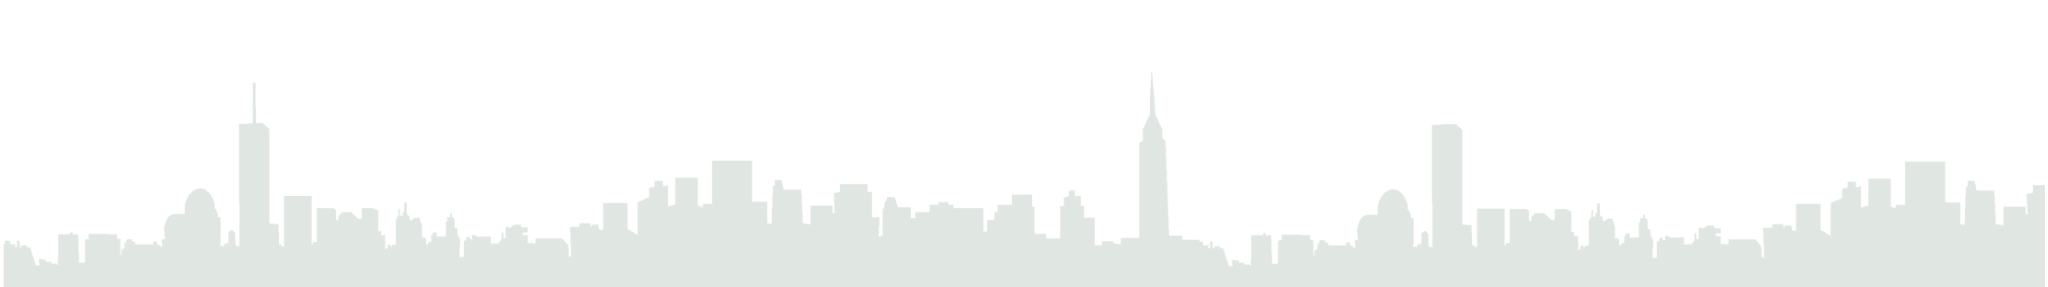
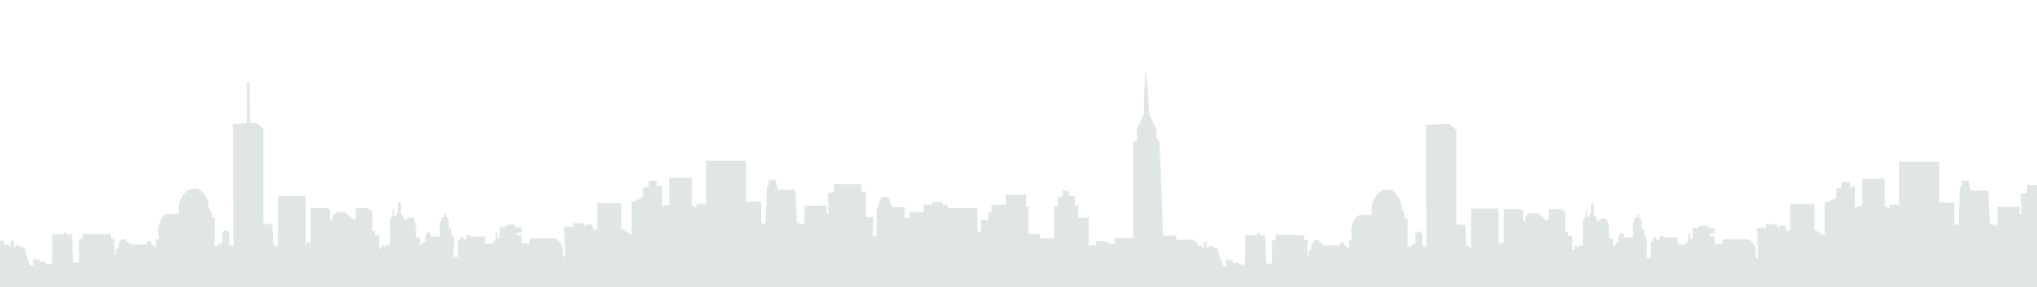
cropped and moved cityline

diff --git a/commonplace/app/page.tsx b/commonplace/app/page.tsx
@@ -22,72 +22,76 @@ export default function Home({
   searchParams: { [key: string]: string | undefined}
 }) {
   return (
-    <div className='pt-[60px] mx-12'>
-      <Hero/>
-      <LineBreak/>
-      <About/>
-      
-      <div className='
-        responsive-screen-sm my-8 bg-cover bg-fixed bg-center bg-no-repeat
-      '
-        style={{backgroundImage: 'url("/scroll.jpg")'}}
-      >
-      </div>
-
-      <LogosScroll />
-
-      <SectionHeader
-        text="EXPERIENCES"
-      />
-      
-      <ExperienceCard
-        imgsrc='/experience/Kings Bay Y.png'
-        imgalt='Kings Bay Y'
-        title='Kings Bay Y'
-        description=''
-        startDate='07/2023'
-        endDate='08/2023'
-      />
-      <ExperienceCard
-        imgsrc='/experience/Gifted Reading and Math Center.jpg'
-        imgalt='Gifted Reading and Math Center'
-        title='Gifted Reading and Math Center'
-        description=''
-        startDate='09/2019'
-        endDate='07/2022'
-      />
-      
-      <SectionHeader
-        text="Projects"
-      />
-      <div className="
-        grid grid-cols-1 xs:grid-cols-2 md:grid-cols-3 lg:grid-cols-4 xl:grid-cols-5 xxl:grid-cols-6
-      ">
-        <ProjectCard
-          header="IBM Ceph"
-          url='/project/IBM Ceph.jpg'
-          alt='IBM Ceph'
+    <div className="h-full">
+      <div className='pt-[60px] mx-12'>
+        <Hero/>
+        <LineBreak/>
+        <About/>
+        
+        <div className='
+          responsive-screen-sm my-8 bg-cover bg-fixed bg-center bg-no-repeat
+        '
+          style={{backgroundImage: 'url("/scroll.jpg")'}}
+        >
+        </div>
+  
+        <LogosScroll />
+  
+        <SectionHeader
+          text="EXPERIENCES"
         />
-        <ProjectCard
-          header="MIPS Simulator in C"
-          url='/project/MIPS Simulator in C.png'
-          alt='MIPS Simulator in C'
-        />  
-        <ProjectCard
-          header="Animal Genome Size Dataset"
-          url='/project/Animal Genome Size Dataset.png'
-          alt='Animal Genome Size Dataset'
-        />  
-        <ProjectCard
-          header="State Machine Circuit"
-          url='/project/State Machine Circuit.webp'
-          alt='State Machine Circuit'
-        />  
-        <ProjectCard
-          header="World Happiness VS Cost of Living Index"
-          url='/project/World Happiness VS Cost of Living Index.jpg'
-          alt='World Happiness VS Cost of Living Index'
-        />         
+        
+        <ExperienceCard
+          imgsrc='/experience/Kings Bay Y.png'
+          imgalt='Kings Bay Y'
+          title='Kings Bay Y'
+          description=''
+          startDate='07/2023'
+          endDate='08/2023'
+        />
+        <ExperienceCard
+          imgsrc='/experience/Gifted Reading and Math Center.jpg'
+          imgalt='Gifted Reading and Math Center'
+          title='Gifted Reading and Math Center'
+          description=''
+          startDate='09/2019'
+          endDate='07/2022'
+        />
+        
+        <SectionHeader
+          text="Projects"
+        />
+        <div className="
+          grid grid-cols-1 xs:grid-cols-2 md:grid-cols-3 lg:grid-cols-4 xl:grid-cols-5 xxl:grid-cols-6
+          gap-y-8 pt-8
+        ">
+          <ProjectCard
+            header="IBM Ceph"
+            url='/project/IBM Ceph.jpg'
+            alt='IBM Ceph'
+          />
+          <ProjectCard
+            header="MIPS Simulator in C"
+            url='/project/MIPS Simulator in C.png'
+            alt='MIPS Simulator in C'
+          />  
+          <ProjectCard
+            header="Animal Genome Size Dataset"
+            url='/project/Animal Genome Size Dataset.png'
+            alt='Animal Genome Size Dataset'
+          />  
+          <ProjectCard
+            header="State Machine Circuit"
+            url='/project/State Machine Circuit.webp'
+            alt='State Machine Circuit'
+          />  
+          <ProjectCard
+            header="World Happiness VS Cost of Living Index"
+            url='/project/World Happiness VS Cost of Living Index.jpg'
+            alt='World Happiness VS Cost of Living Index'
+          />         
+        </div>
+        <div className='w-full h-[75px] cityLine ' />
       </div>
     </div>
   );

diff --git a/commonplace/app/components/body/LogosScroll.tsx b/commonplace/app/components/body/LogosScroll.tsx
@@ -69,8 +69,6 @@ const LogosScroll: React.FC<LogosScrollprops> = ({
           
       </div>
 
-      <div className='w-full h-[75px] cityLine ' />
-
     </div>
   );
 }
